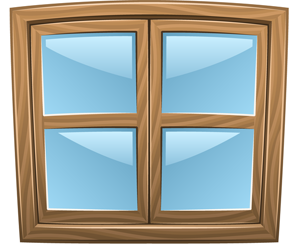
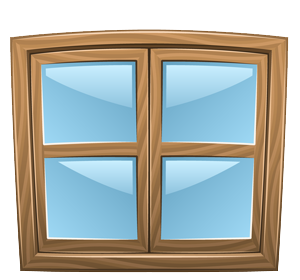
cache weather forecasts, add new window pictures

diff --git a/lib/forecasts/forecasts.go b/lib/forecasts/forecasts.go
@@ -1,0 +1,85 @@
+package forecasts
+
+import (
+	"encoding/xml"
+	"fmt"
+	"io/ioutil"
+	"log"
+	"net/http"
+	"time"
+)
+
+var memo map[string]WeatherForecast
+
+func init() {
+	memo = make(map[string]WeatherForecast, 0)
+}
+
+func getData(url string) ([]byte, error) {
+	resp, err := http.Get(url)
+	if err != nil {
+		return nil, fmt.Errorf("GET error: %v", err)
+	}
+	defer resp.Body.Close()
+
+	if resp.StatusCode != http.StatusOK {
+		return nil, fmt.Errorf("Status error: %v", resp.StatusCode)
+	}
+
+	data, err := ioutil.ReadAll(resp.Body)
+	if err != nil {
+		return nil, fmt.Errorf("Read body: %v", err)
+	}
+	return data, nil
+}
+
+func parseWeatherForecast(data []byte) (WeatherForecast, error) {
+	var forecast WeatherForecast
+	if err := xml.Unmarshal(data, &forecast); err != nil {
+		return WeatherForecast{}, err
+	}
+	forecast.Timestamp = time.Now()
+	return forecast, nil
+}
+
+func Get(canton, city string) (data WeatherForecast, err error) {
+	if len(canton) == 0 {
+		canton = "Bern"
+	}
+	if len(city) == 0 {
+		city = "Bern"
+	}
+
+	// check memory first
+	if forecast, ok := memo[fmt.Sprintf("%s:%s", canton, city)]; ok {
+		// is it older than 1 hour?
+		if time.Now().After(forecast.Timestamp.Add(1 * time.Hour)) {
+			if err := updateWeatherForecast(canton, city); err != nil {
+				return WeatherForecast{}, err
+			}
+		}
+	} else {
+		if err := updateWeatherForecast(canton, city); err != nil {
+			return WeatherForecast{}, err
+		}
+	}
+	return memo[fmt.Sprintf("%s:%s", canton, city)], nil
+}
+
+func updateWeatherForecast(canton, city string) error {
+	log.Printf("update weather forecast data for [%s/%s] ...\n", canton, city)
+
+	//data, err := getData(fmt.Sprintf("http://www.yr.no/place/Switzerland/%s/%s/forecast_hour_by_hour.xml", canton, city))
+	data, err := getData(fmt.Sprintf("http://www.yr.no/place/Switzerland/%s/%s/forecast.xml", canton, city))
+	if err != nil {
+		return err
+	}
+
+	forecast, err := parseWeatherForecast(data)
+	if err != nil {
+		return err
+	}
+
+	memo[fmt.Sprintf("%s:%s", canton, city)] = forecast
+	return nil
+}

diff --git a/lib/forecasts/structs.go b/lib/forecasts/structs.go
@@ -1,15 +1,13 @@
-package main
+package forecasts
 
 import (
 	"encoding/xml"
-	"fmt"
-	"io/ioutil"
-	"net/http"
 	"time"
 )
 
 type WeatherForecast struct {
-	Location struct {
+	Timestamp time.Time `xml:"timestamp"`
+	Location  struct {
 		Name     string `xml:"name"`
 		Country  string `xml:"country"`
 		Location struct {
@@ -71,45 +69,4 @@ func (w *weatherDate) UnmarshalXMLAttr(attr xml.Attr) error {
 	}
 	*w = weatherDate{parse}
 	return nil
-}
-
-func getData(url string) ([]byte, error) {
-	resp, err := http.Get(url)
-	if err != nil {
-		return nil, fmt.Errorf("GET error: %v", err)
-	}
-	defer resp.Body.Close()
-
-	if resp.StatusCode != http.StatusOK {
-		return nil, fmt.Errorf("Status error: %v", resp.StatusCode)
-	}
-
-	data, err := ioutil.ReadAll(resp.Body)
-	if err != nil {
-		return nil, fmt.Errorf("Read body: %v", err)
-	}
-	return data, nil
-}
-
-func parseWeatherForecast(data []byte) (*WeatherForecast, error) {
-	var forecast WeatherForecast
-	if err := xml.Unmarshal(data, &forecast); err != nil {
-		return nil, err
-	}
-	return &forecast, nil
-}
-
-func GetWeatherForecast(canton, city string) (*WeatherForecast, error) {
-	if len(canton) == 0 {
-		canton = "Bern"
-	}
-	if len(city) == 0 {
-		city = "Bern"
-	}
-
-	data, err := getData(fmt.Sprintf("http://www.yr.no/place/Switzerland/%s/%s/forecast.xml", canton, city))
-	if err != nil {
-		return nil, err
-	}
-	return parseWeatherForecast(data)
 }

diff --git a/handlers.go b/handlers.go
@@ -6,7 +6,8 @@ import (
 	"time"
 
 	"github.com/anyandrea/weather_app/lib/database/weatherdb"
-	"github.com/anyandrea/weather_app/lib/env"
+	"github.com/anyandrea/weather_app/lib/forecasts"
+	"github.com/anyandrea/weather_app/lib/util"
 	"github.com/gorilla/mux"
 	"github.com/unrolled/render"
 )
@@ -105,7 +106,7 @@ func ForecastsHandler(rw http.ResponseWriter, req *http.Request) {
 		Active: "forecasts",
 	}
 
-	forecast, err := GetWeatherForecast(canton, city)
+	forecast, err := forecasts.Get(canton, city)
 	if err != nil {
 		page.Content = struct {
 			Canton string
@@ -123,7 +124,7 @@ func ForecastsHandler(rw http.ResponseWriter, req *http.Request) {
 	page.Content = struct {
 		Canton           string
 		City             string
-		Forecast         *WeatherForecast
+		Forecast         forecasts.WeatherForecast
 		Today            time.Time
 		Tomorrow         time.Time
 		DayAfterTomorrow time.Time
@@ -153,13 +154,5 @@ func getLocation(req *http.Request) (string, string) {
 		city = req.Form.Get("city")
 	}
 
-	// now, try to read defaults from ENV, with reasonable defaults otherwise
-	if len(canton) == 0 {
-		canton = env.Get("DEFAULT_CANTON", "Bern")
-	}
-	if len(city) == 0 {
-		city = env.Get("DEFAULT_CITY", "Bern")
-	}
-
-	return canton, city
+	return util.GetDefaultLocation(canton, city)
 }

diff --git a/lib/util/window_state.go b/lib/util/window_state.go
@@ -1,0 +1,33 @@
+package util
+
+import (
+	"strings"
+
+	"github.com/anyandrea/weather_app/lib/forecasts"
+)
+
+func GetWindowImage(state int64) (string, error) {
+	var image string
+	switch state {
+	case 0:
+		forecast, err := forecasts.Get(GetDefaultLocation("", ""))
+		if err != nil {
+			return "", err
+		}
+		weather := strings.ToLower(forecast.Forecast.Tabular.Time[0].Symbol.Name)
+
+		image = "window_open_rainy.png"
+		if strings.Contains(weather, "rain") || strings.Contains(weather, "shower") {
+			image = "window_open_rainy.png"
+		} else if strings.Contains(weather, "cloud") {
+			image = "window_open_cloudy.png"
+		} else if strings.Contains(weather, "snow") {
+			image = "window_open_snowy.png"
+		} else if strings.Contains(weather, "sun") || strings.Contains(weather, "fair") {
+			image = "window_open_sunny.png"
+		}
+	case 1:
+		image = "window_closed.png"
+	}
+	return image, nil
+}

diff --git a/lib/database/weatherdb/weatherdb.go b/lib/database/weatherdb/weatherdb.go
@@ -8,6 +8,7 @@ import (
 	"time"
 
 	"github.com/anyandrea/weather_app/lib/database"
+	"github.com/anyandrea/weather_app/lib/util"
 )
 
 type WeatherDB interface {
@@ -72,19 +73,9 @@ func (wdb *weatherDB) GetWindowStates() ([]*Window, error) {
 			}
 
 			if len(values) > 0 {
-				var image string
-				switch values[0].Value {
-				case 0:
-					temp, err := wdb.GetTemperature()
-					if err != nil {
-						return nil, err
-					}
-					image = "window_open_rainy.png"
-					if temp > 15 { // TODO: use weather status from weatherstation API data, if it's raining or not, not temperature, that's silly!
-						image = "window_open_sunny.png"
-					}
-				case 1:
-					image = "window_closed.png"
+				image, err := util.GetWindowImage(values[0].Value)
+				if err != nil {
+					return nil, err
 				}
 				windows = append(windows, &Window{Image: image, Title: sensor.Name})
 			}

diff --git a/lib/util/location.go b/lib/util/location.go
@@ -1,0 +1,14 @@
+package util
+
+import "github.com/anyandrea/weather_app/lib/env"
+
+func GetDefaultLocation(canton, city string) (string, string) {
+	// try to read defaults from ENV, with reasonable defaults otherwise
+	if len(canton) == 0 {
+		canton = env.Get("DEFAULT_CANTON", "Bern")
+	}
+	if len(city) == 0 {
+		city = env.Get("DEFAULT_CITY", "Bern")
+	}
+	return canton, city
+}
